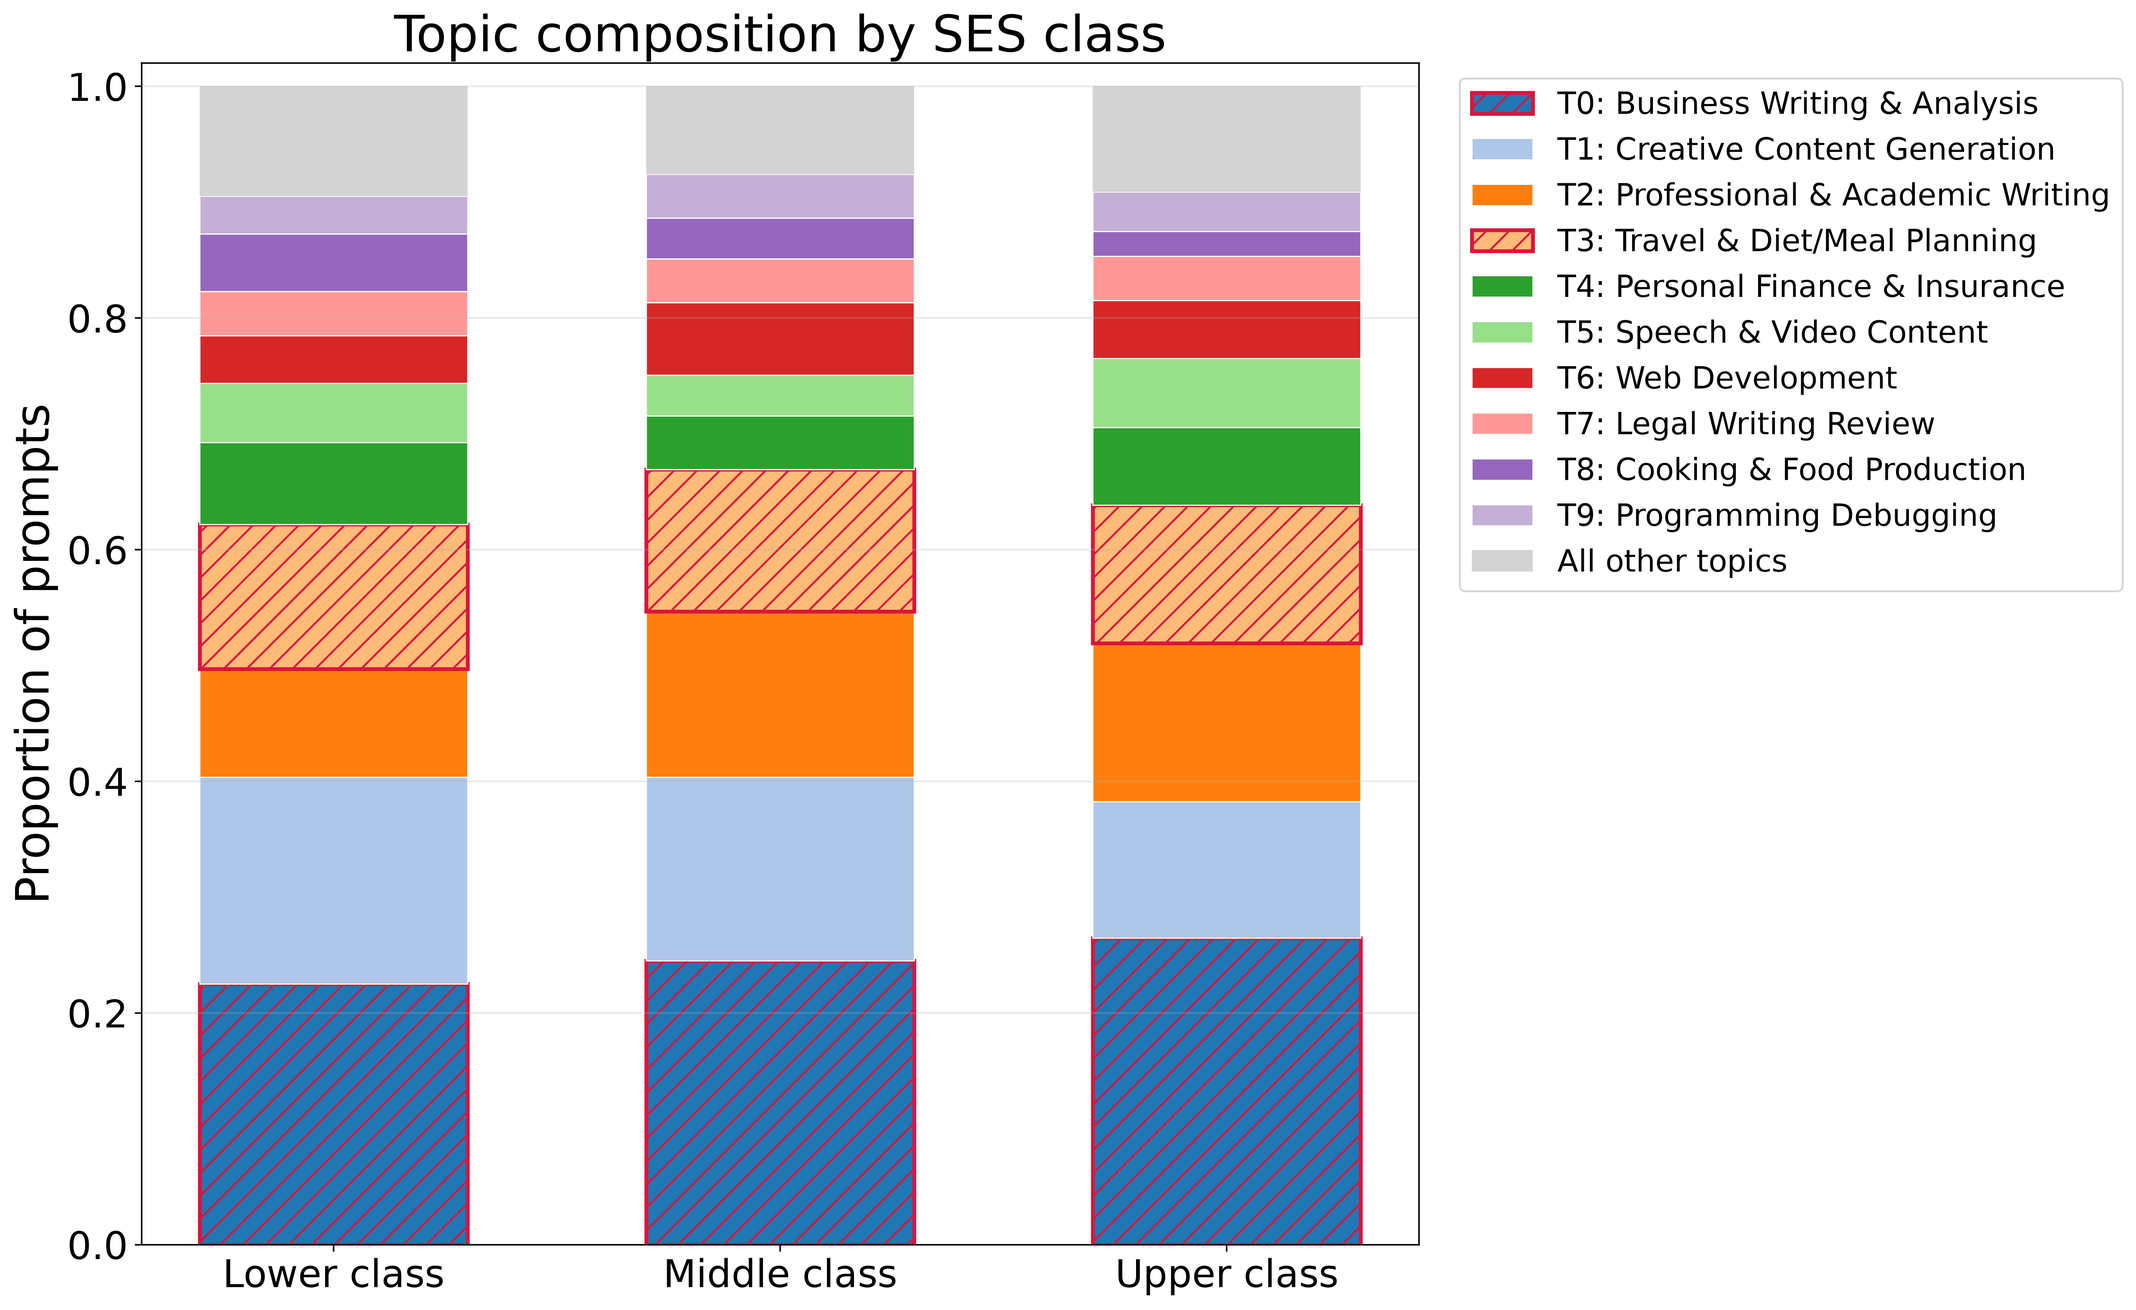
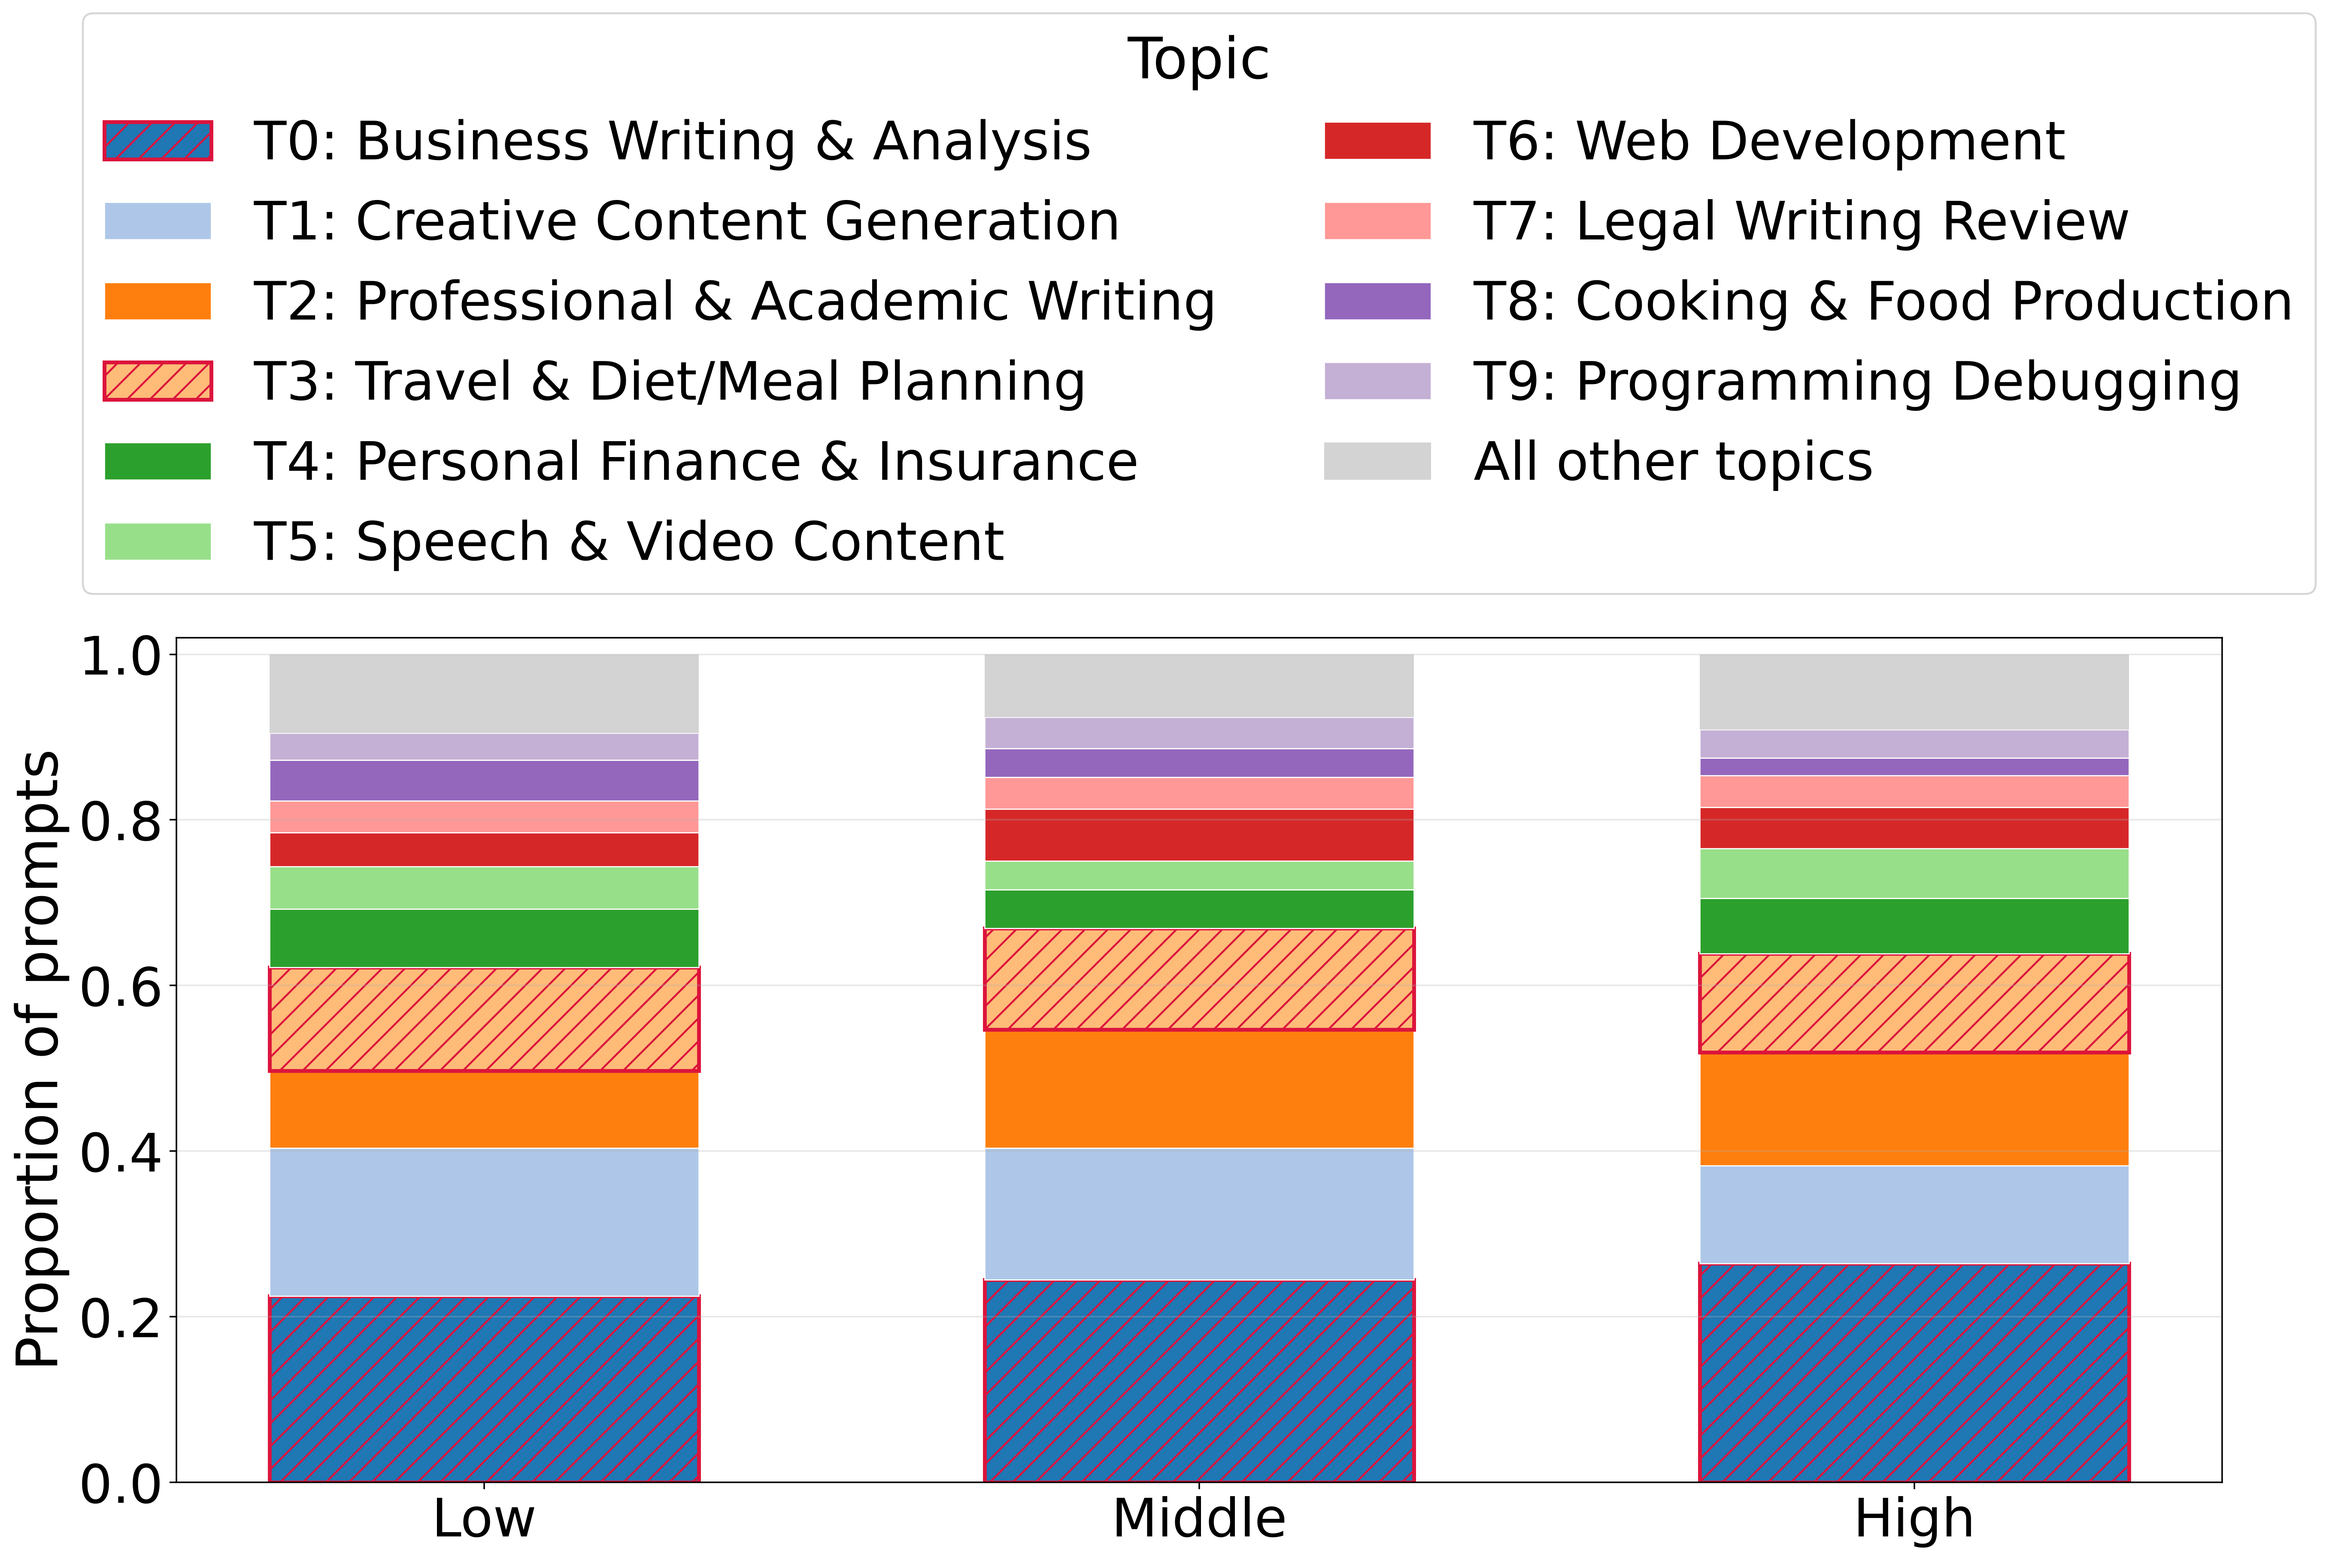
updated tm plots

diff --git a/ses_topic_modeling.py b/ses_topic_modeling.py
@@ -39,20 +39,26 @@ TOP_N_COMMON = 2
 TOP_N_REPRESENTATIVE = 5
 TOP_N_SHORTLIST = 20
 
-SES_CLASS_ORDER = ["low", "middle", "upper"]
-SES_CLASS_LABELS = {"low": "Lower class",
-                    "middle": "Middle class", "upper": "Upper class"}
 TAB20 = plt.colormaps["tab20"].colors
 
 plt.rcParams.update({
-    "font.size": 22,
-    "axes.titlesize": 26,
-    "axes.labelsize": 24,
-    "xtick.labelsize": 20,
-    "ytick.labelsize": 20,
-    "legend.fontsize": 20,
-    "legend.title_fontsize": 22,
+    "font.size": 24,
+    "axes.titlesize": 30,
+    "axes.labelsize": 30,
+    "xtick.labelsize": 28,
+    "ytick.labelsize": 28,
+    "legend.fontsize": 28,
+    "legend.title_fontsize": 30,
 })
+
+# SES bucketing --------------------------------------------------------------
+# Edit BIN_EDGES / BIN_LABELS to change the buckets.
+BIN_EDGES  = [0, 3, 7, 10]          # (0,3] -> Low, (3,7] -> Middle, (7,10] -> High
+BIN_LABELS = ["Low", "Middle", "High"]
+SES_ORDER  = BIN_LABELS
+
+SES_CLASS_ORDER = SES_ORDER
+SES_CLASS_LABELS = {lbl: lbl for lbl in SES_CLASS_ORDER}
 
 os.makedirs(OUTPUT_DIR, exist_ok=True)
 os.makedirs(MODELS_DIR, exist_ok=True)
@@ -349,8 +355,11 @@ def load_ses_sample_with_topics(df_assignments: pd.DataFrame) -> pd.DataFrame:
     df_sample = pd.read_csv(SES_DATA_PATH)
 
     n_before = len(df_sample)
-    df_sample = df_sample[df_sample["social_class"].isin(
-        SES_CLASS_ORDER)].copy()
+    df_sample = df_sample.copy()
+    df_sample["social_class"] = pd.cut(
+        df_sample["ses"], bins=BIN_EDGES, labels=BIN_LABELS, include_lowest=True
+    )
+    df_sample = df_sample[df_sample["social_class"].isin(SES_CLASS_ORDER)].copy()
 
     df_merged = df_sample.merge(
         df_assignments[["id", "dominant_topic",
@@ -546,7 +555,7 @@ def make_topic_level_bar(
 
     short_labels = [f"T{i}: {lbl}" for i, lbl in enumerate(tpc_labels)]
 
-    fig, ax = plt.subplots(figsize=(max(14, n_topics * 1.2), 9))
+    fig, ax = plt.subplots(figsize=(max(16, n_topics * 1.3), 10))
     bottoms = np.zeros(n_topics)
     for j, cls in enumerate(SES_CLASS_ORDER):
         ax.bar(
@@ -557,23 +566,23 @@ def make_topic_level_bar(
 
     for i, total in enumerate(totals.ravel()):
         ax.text(i, 1.01, f"{int(total)}",
-                ha="center", va="bottom", fontsize=16)
+                ha="center", va="bottom", fontsize=20)
 
     ax.set_xticks(range(n_topics))
-    ax.set_xticklabels(short_labels, fontsize=18, rotation=45, ha="right")
+    ax.set_xticklabels(short_labels, fontsize=26, rotation=45, ha="right",
+                        rotation_mode="anchor")
     for i, tick in enumerate(ax.get_xticklabels()):
         if i in common_topic_ids:
             tick.set_color("crimson")
             tick.set_fontweight("bold")
 
     ax.set_ylabel("Proportion of prompts")
-    ax.set_ylim(0, 1.12)
-    ax.set_title(
-        "Topic composition by SES class",
-        fontsize=26,
-    )
-    ax.legend(title="SES class", bbox_to_anchor=(
-        1.02, 1), loc="upper left", fontsize=20)
+    ax.set_ylim(0, 1.22)
+    #ax.set_title(
+    #    "Topic composition by SES class",
+    #    fontsize=26, pad=60,
+    #)
+    ax.legend(title="SES bucket", bbox_to_anchor=(0.5, 1.02), loc="lower center",ncol=len(SES_CLASS_ORDER))
     ax.grid(axis="y", alpha=0.3)
     fig.tight_layout()
     fig.savefig(path, dpi=EXPORT_DPI, bbox_inches="tight")
@@ -598,7 +607,7 @@ def make_reverse_bar(
 
     color_map = {t: TAB20[i % len(TAB20)] for i, t in enumerate(shown_topics)}
 
-    fig, ax = plt.subplots(figsize=(16, 10))
+    fig, ax = plt.subplots(figsize=(18, 12))
     x = np.arange(len(SES_CLASS_ORDER))
     bottoms = np.zeros(len(SES_CLASS_ORDER))
 
@@ -620,14 +629,14 @@ def make_reverse_bar(
 
     ax.set_xticks(x)
     ax.set_xticklabels([SES_CLASS_LABELS[c]
-                       for c in SES_CLASS_ORDER], fontsize=20)
+                       for c in SES_CLASS_ORDER], fontsize=28)
     ax.set_ylabel("Proportion of prompts")
     ax.set_ylim(0, 1.02)
-    ax.set_title(
-        f"Topic composition by SES class",
-        fontsize=26,
-    )
-    ax.legend(bbox_to_anchor=(1.02, 1), loc="upper left", fontsize=16)
+    #ax.set_title(
+    #    f"Topic composition by SES class",
+    #    fontsize=26, pad=100,
+    # )
+    ax.legend(title="Topic", bbox_to_anchor=(0.5, 1.02), loc="lower center", ncol=2)
     ax.grid(axis="y", alpha=0.3)
     fig.tight_layout()
     fig.savefig(path, dpi=EXPORT_DPI, bbox_inches="tight")

diff --git a/evaluation/topic_modeling/ses_plots/model_15_topics/representative_queries_by_ses.tex b/evaluation/topic_modeling/ses_plots/model_15_topics/representative_queries_by_ses.tex
@@ -5,7 +5,7 @@
 \toprule
 \multicolumn{3}{c}{\textbf{Business Writing \& Analysis: word, business, explain, datum, sentence, company, customer, generate, summarize, price}} \\
 \midrule
-Lower class & Middle class & Upper class \\
+Low & Middle & High \\
 \midrule
 How do you develop customer experience strategies and, how do you utilize customer feedback to ensure continuous improvement? & If the companies in this article had used sandboxing techniques could they have avoided the compromising data collection by Amazon? & Explain the iron condor strategy in stock trading in a simple manner \\[4pt]
 Please summarise the plot of the novel Anna Karenina without spoilers & Explain the difference between machine learning and artificial intelligence. & What are the digital marketing strategies for small businesses \\[4pt]
@@ -40,7 +40,7 @@ how to write an intro for a scientific essay & How can employees improve both th
 \toprule
 \multicolumn{3}{c}{\textbf{Travel \& Diet/Meal Planning: plan, book, food, activity, month, recommend, daily, report, lose, money}} \\
 \midrule
-Lower class & Middle class & Upper class \\
+Low & Middle & High \\
 \midrule
 Give me a heart healthy meal plan to diet to follow for cutting and muscle gain. & between Burger king, chick fil A, McDonalds, Subway, Taco bell and Wendy's, rate the prices. & Tell me the pros and cons of lions mane supplement, is it safe and what is the recommended dose \\[4pt]
 List me the best workout routine for someone looking to lose belly fat. & If i save 50 pounds a week how much money will i have saved in 3 years and 7 months & Write me a 4 day meal plan for low FODMAP diet that has a mixture of vegetarian and meat based meals \\[4pt]
